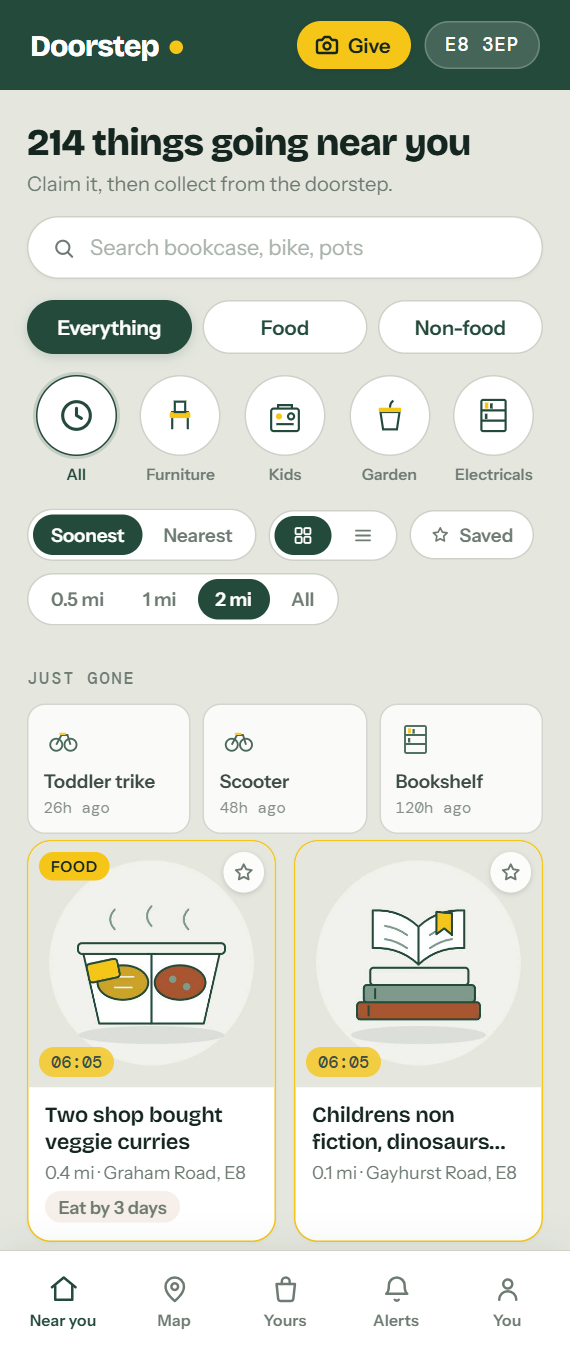
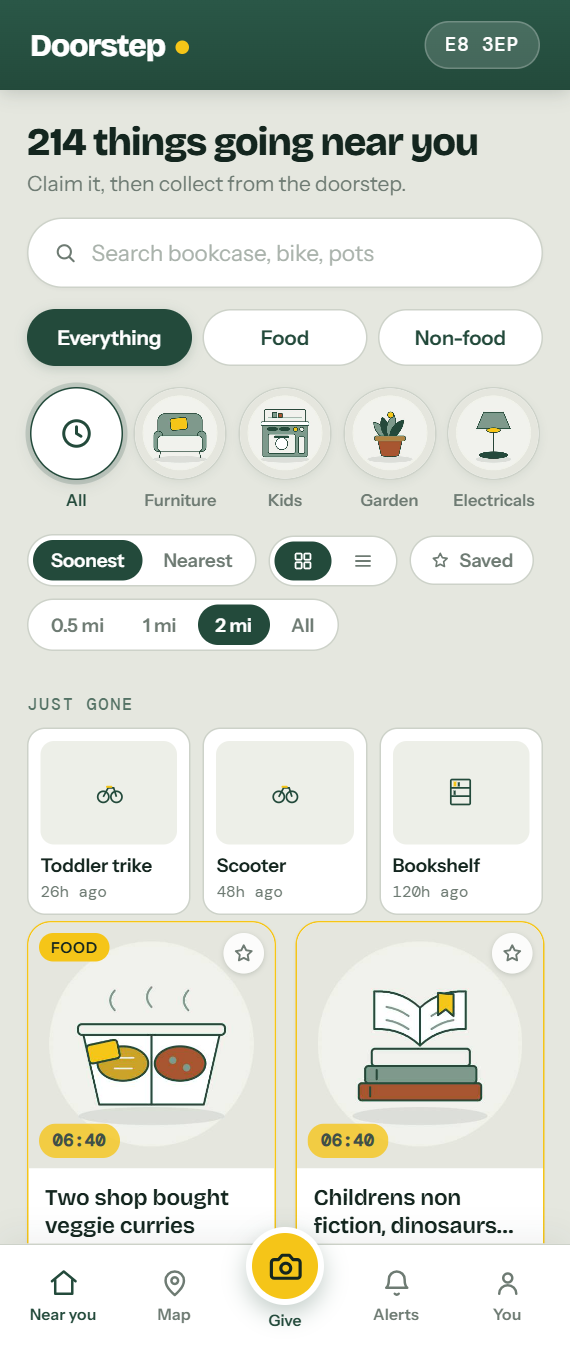
Give in the middle of the bar, and real pictures on the categories
Giving moved from the top-right corner into the middle of the bottom bar,
raised and in signal yellow — the pattern both Olio and Gumtree use, and it
puts the one thing the app wants you to do under your thumb rather than in
the hardest corner of a phone to reach. Near you, Map, Give, Alerts, You.
Your things moved into the profile, which already linked to it.

The category shortcuts were thin outline drawings, which is what made the
row look unfinished. They now use the illustration library: an actual
armchair for Furniture, a toy kitchen for Kids, a potted plant for Garden, a
floor lamp for Electricals, and the food categories likewise. The pictures
were already being served and cached, so this costs nothing. "Just gone"
gets the same treatment.

The rest is weight and contrast: a gradient and a shadow under the header so
it sits above the page, a larger headline, section labels in the brand green
rather than grey, and the claim button filled rather than outlined — it is
the moment the whole app exists for and it was the quietest thing on the
card.

Fixed: the category images were scaled inside a circle that already cropped
them, pushing the illustration past the edge.

Also fixed two of my own checks rather than the app: one was clicking "Near
you" whenever it looked for "You", and both addressed tabs by position after
the bar had been rearranged.

50 tests pass, eight screens clean at 380px and 1000px.

Changed region(s): [[0.0, 0.0933, 1.0, 0.9956], [0.507, 0.0, 0.7158, 0.0622], [0.0895, 0.0311, 0.3281, 0.0622]]

diff --git a/src/App.jsx b/src/App.jsx
@@ -231,20 +231,22 @@ const SubScreen = ({ title, time, toast, sheets, onBack, children }) => (
 );
 
 const CATEGORIES = ["Going soonest", "Furniture", "Kids", "Garden", "Electricals"];
+/* `kind` is the drawn glyph used when a listing has no picture; `pic` is the
+   illustration that stands for the whole category in the shortcut row. */
 const NONFOOD_CATS = [
-  { cat: "Furniture", kind: "chairs" },
-  { cat: "Kids", kind: "toys" },
-  { cat: "Garden", kind: "garden" },
-  { cat: "Electricals", kind: "bookcase" },
+  { cat: "Furniture", kind: "chairs", pic: "armchair" },
+  { cat: "Kids", kind: "toys", pic: "toy-kitchen" },
+  { cat: "Garden", kind: "garden", pic: "houseplant" },
+  { cat: "Electricals", kind: "bookcase", pic: "floor-lamp" },
 ];
 
 const FOOD_CATS = [
-  { cat: "Bakery", kind: "bread" },
-  { cat: "Fruit & veg", kind: "veg" },
-  { cat: "Dairy", kind: "dairy" },
-  { cat: "Store cupboard", kind: "tin" },
-  { cat: "Ready meals", kind: "meal" },
-  { cat: "Drinks", kind: "drink" },
+  { cat: "Bakery", kind: "bread", pic: "bread" },
+  { cat: "Fruit & veg", kind: "veg", pic: "vegetables" },
+  { cat: "Dairy", kind: "dairy", pic: "dairy" },
+  { cat: "Store cupboard", kind: "tin", pic: "tins" },
+  { cat: "Ready meals", kind: "meal", pic: "ready-meal" },
+  { cat: "Drinks", kind: "drink", pic: "drinks" },
 ];
 
 const catsFor = (type) => (type === "food" ? FOOD_CATS : NONFOOD_CATS);
@@ -2414,19 +2416,6 @@ export default function Doorstep() {
             </div>
             <div className="topbar-actions">
               <button
-                className="give-top"
-                onClick={() => {
-                  if (needsAccount("Sign in to give something away", { action: "give" })) return;
-                  setScreen("give");
-                }}
-              >
-                <svg width="16" height="16" viewBox="0 0 24 24" fill="none" stroke="currentColor" strokeWidth="2.4" strokeLinecap="round" strokeLinejoin="round" aria-hidden="true">
-                  <path d="M14.5 4h-5L7 7H4a2 2 0 0 0-2 2v9a2 2 0 0 0 2 2h16a2 2 0 0 0 2-2V9a2 2 0 0 0-2-2h-3z" />
-                  <circle cx="12" cy="13" r="3.4" />
-                </svg>
-                Give
-              </button>
-              <button
                 className="place-btn"
                 onClick={() => {
                   if (needsAccount("Sign in to join your neighbourhood")) return;
@@ -2487,10 +2476,10 @@ export default function Doorstep() {
 
             <div className="cat-row" role="group" aria-label="Browse by category">
               {[
-                { c: "Going soonest", kind: "clock", label: "All" },
+                { c: "Going soonest", pic: null, label: "All" },
                 ...(typeFilter === "food" ? FOOD_CATS : typeFilter === "nonfood" ? NONFOOD_CATS : [...NONFOOD_CATS, ...FOOD_CATS])
                   .slice(0, typeFilter === "all" ? 4 : 6)
-                  .map((c) => ({ c: c.cat, kind: c.kind, label: c.cat })),
+                  .map((c) => ({ c: c.cat, pic: c.pic, label: c.cat })),
               ].map((c) => (
                 <button
                   key={c.c}
@@ -2499,13 +2488,13 @@ export default function Doorstep() {
                   onClick={() => setFilter(c.c)}
                 >
                   <span className="cat-ring">
-                    {c.kind === "clock" ? (
-                      <svg width="26" height="26" viewBox="0 0 24 24" fill="none" stroke="#234A3B" strokeWidth="1.9" strokeLinecap="round" aria-hidden="true">
+                    {c.pic ? (
+                      <img src={`${API}/photos/${c.pic}`} alt="" loading="lazy" />
+                    ) : (
+                      <svg width="24" height="24" viewBox="0 0 24 24" fill="none" stroke="currentColor" strokeWidth="2" strokeLinecap="round" aria-hidden="true">
                         <circle cx="12" cy="12" r="8.5" />
                         <path d="M12 7.5V12l3 1.8" />
                       </svg>
-                    ) : (
-                      <Glyph kind={c.kind} size={30} />
                     )}
                   </span>
                   {c.label}
@@ -2595,7 +2584,13 @@ export default function Doorstep() {
                 <div className="gone-strip">
                   {recent.slice(0, 3).map((r, i) => (
                     <span key={i} className="gone-chip">
-                      <Glyph kind={r.kind} size={26} />
+                      <span className="gone-pic">
+                        {r.photoRef ? (
+                          <img src={`${API}/photos/${r.photoRef}`} alt="" loading="lazy" />
+                        ) : (
+                          <Glyph kind={r.kind} size={24} />
+                        )}
+                      </span>
                       <b>{r.title}</b>
                       <small>{r.agoMinutes < 60 ? `${r.agoMinutes} min ago` : `${Math.round(r.agoMinutes / 60)}h ago`}</small>
                     </span>
@@ -2773,20 +2768,25 @@ export default function Doorstep() {
               </svg>
               Map
             </button>
+
+            {/* the one thing the app wants you to do, sat under the thumb */}
             <button
-              className="tabbar-btn"
+              className="tabbar-give"
+              aria-label="Give something away"
               onClick={() => {
-                if (needsAccount("Sign in to see your things", { action: "mine" })) return;
-                setTab("toCollect");
-                setScreen("mine");
+                if (needsAccount("Sign in to give something away", { action: "give" })) return;
+                setScreen("give");
               }}
             >
-              <svg viewBox="0 0 24 24" fill="none" stroke="currentColor" strokeWidth="1.9" strokeLinecap="round" strokeLinejoin="round" aria-hidden="true">
-                <path d="M5 8h14l-1.2 11.2a2 2 0 0 1-2 1.8H8.2a2 2 0 0 1-2-1.8z" />
-                <path d="M9 8V6a3 3 0 0 1 6 0v2" />
-              </svg>
-              Yours
+              <span className="give-ring">
+                <svg viewBox="0 0 24 24" fill="none" stroke="currentColor" strokeWidth="2.2" strokeLinecap="round" strokeLinejoin="round" aria-hidden="true">
+                  <path d="M14.5 4h-5L7 7H4a2 2 0 0 0-2 2v9a2 2 0 0 0 2 2h16a2 2 0 0 0 2-2V9a2 2 0 0 0-2-2h-3z" />
+                  <circle cx="12" cy="13" r="3.4" />
+                </svg>
+              </span>
+              Give
             </button>
+
             <button
               className="tabbar-btn"
               onClick={() => {

diff --git a/src/styles.css b/src/styles.css
@@ -261,36 +261,8 @@
 
 .topbar-actions { display: flex; align-items: center; gap: 8px; flex: none; }
 
-/* the main action lives in the header now, in signal yellow so it reads as
-   the one thing to do */
-.give-top {
-  display: inline-flex;
-  align-items: center;
-  gap: 6px;
-  font-family: var(--body);
-  font-size: 13.5px;
-  font-weight: 600;
-  color: var(--ink);
-  background: var(--signal);
-  border: none;
-  border-radius: 20px;
-  padding: 8px 14px 8px 12px;
-  cursor: pointer;
-  white-space: nowrap;
-  box-shadow: 0 1px 3px rgba(20, 38, 31, 0.18);
-  transition: transform .08s, filter .15s;
-}
-
-.give-top:hover { filter: brightness(1.05); }
-.give-top:active { transform: translateY(1px); }
-
-.place-btn {
-  background: rgba(255, 255, 255, 0.14);
-  color: #FFF;
-  box-shadow: none;
-}
-
-.place-btn:hover { background: rgba(255, 255, 255, 0.24); }
+/* the header carries no action now — giving sits in the bottom bar, where a
+   thumb naturally rests */
 
 .icon-btn {
   width: 30px;
@@ -1651,6 +1623,7 @@
   position: sticky;
   bottom: 0;
   z-index: 25;
+  overflow: visible;
   display: flex;
   align-items: stretch;
   gap: 2px;
@@ -1685,6 +1658,48 @@
 .tabbar-btn[aria-current="page"] { color: var(--railing); }
 
 .tabbar-icon { position: relative; display: inline-flex; }
+
+/* Giving is the one thing the app wants from you, so it sits in the middle
+   of the bar and stands proud of it. */
+.tabbar-give {
+  flex: 1;
+  display: flex;
+  flex-direction: column;
+  align-items: center;
+  gap: 4px;
+  font-family: var(--body);
+  font-size: 10.5px;
+  font-weight: 700;
+  color: var(--railing);
+  background: none;
+  border: none;
+  padding: 0 2px 5px;
+  margin-top: -20px;
+  cursor: pointer;
+}
+
+.give-ring {
+  width: 52px;
+  height: 52px;
+  border-radius: 50%;
+  background: var(--signal);
+  color: var(--ink);
+  border: 4px solid var(--card);
+  display: flex;
+  align-items: center;
+  justify-content: center;
+  box-shadow: 0 6px 16px rgba(35, 74, 59, 0.28);
+  transition: transform .14s, box-shadow .18s;
+}
+
+.give-ring svg { width: 23px; height: 23px; }
+
+.tabbar-give:hover .give-ring {
+  transform: translateY(-2px);
+  box-shadow: 0 10px 22px rgba(35, 74, 59, 0.34);
+}
+
+.tabbar-give:active .give-ring { transform: scale(0.94); }
 
 .tabbar-icon em {
   position: absolute;
@@ -1835,16 +1850,28 @@
 }
 
 .cat-btn span.cat-ring {
+  position: relative;
   width: 100%;
   aspect-ratio: 1;
-  max-width: 54px;
+  max-width: 62px;
   border-radius: 50%;
   background: var(--card);
   border: 1px solid var(--rule);
+  color: var(--railing);
   display: flex;
   align-items: center;
   justify-content: center;
-  transition: border-color .15s, transform .1s, box-shadow .15s;
+  overflow: hidden;
+  box-shadow: 0 2px 6px rgba(20, 38, 31, 0.07);
+  transition: border-color .15s, transform .12s, box-shadow .18s;
+}
+
+.cat-ring img {
+  width: 100%;
+  height: 100%;
+  /* cover already crops to the circle; scaling on top of it only pushed the
+     illustration past the edge */
+  object-fit: cover;
 }
 
 .cat-btn:hover .cat-ring { border-color: var(--railing); }
@@ -1854,8 +1881,11 @@
 
 .cat-btn[aria-pressed="true"] .cat-ring {
   border-color: var(--railing);
-  box-shadow: 0 0 0 2px rgba(35, 74, 59, 0.16);
+  box-shadow: 0 0 0 3px rgba(35, 74, 59, 0.18), 0 3px 10px rgba(20, 38, 31, 0.12);
 }
+
+.cat-btn:hover .cat-ring { transform: translateY(-2px); box-shadow: 0 6px 14px rgba(20, 38, 31, 0.14); }
+.cat-btn { font-size: 11px; }
 
 /* ---------- the grid of listings ---------- */
 
@@ -2213,3 +2243,90 @@
   }
   .gcard:hover .gcard-photo img { transform: none; }
 }
+
+
+/* ---------- a bit more presence ----------
+   The palette was right but too evenly weighted: everything sat on the same
+   pale card at the same elevation, so nothing led. These give the page a
+   little depth and let the important things carry more colour. */
+
+.ds-frame { background: var(--render); }
+
+.topbar {
+  background: linear-gradient(180deg, #2A5747 0%, var(--railing) 100%);
+  box-shadow: 0 2px 12px rgba(20, 38, 31, 0.18);
+}
+
+.topbar .wordmark { font-size: 21px; letter-spacing: -0.03em; }
+
+.feed-head {
+  font-size: 26px;
+  line-height: 1.12;
+  letter-spacing: -0.03em;
+}
+
+.feed-sub { font-size: 14px; }
+
+/* section headings earn their place */
+.sub-head, .just-gone .sub-head {
+  font-size: 11px;
+  letter-spacing: 0.12em;
+  color: var(--railing);
+  opacity: 0.75;
+}
+
+/* the card title is the thing being read, so let it lead */
+.gcard-copy b { font-size: 15px; line-height: 1.3; }
+.gcard-copy span { font-size: 12.5px; }
+.gcard-photo { background: #EDEFE8; }
+
+/* the countdown chip is information, so make it legible rather than subtle */
+.gcard-timer {
+  font-size: 11.5px;
+  font-weight: 600;
+  padding: 4px 9px;
+  backdrop-filter: blur(2px);
+}
+
+/* claiming is the moment the app exists for */
+.claim-btn {
+  background: var(--railing);
+  color: #FFF;
+  font-size: 15px;
+  letter-spacing: 0.005em;
+}
+
+.claim-btn:hover:not(:disabled) { background: var(--railing-lift); }
+.claim-btn:disabled { background: #EFF1EA; color: var(--hush); }
+.claim-btn.mine { background: var(--signal); color: var(--ink); }
+.card-action { border-top: none; }
+
+.detail-title { font-size: 26px; letter-spacing: -0.025em; }
+.detail-photo { border: none; box-shadow: 0 4px 16px rgba(20, 38, 31, 0.08); background: #EDEFE8; }
+
+/* the search field is the first thing a hand reaches for */
+.search-row { padding: 13px 17px; }
+.search-row input { font-size: 15px; }
+
+.type-pill { padding: 10px 8px; }
+
+/* give the feed room to breathe between its parts */
+.feed { padding-bottom: 34px; }
+.item-grid { gap: 13px; }
+.just-gone { margin-top: 30px; }
+.controls-row { margin-bottom: 18px; }
+
+.gone-pic {
+  width: 100%;
+  aspect-ratio: 4 / 3;
+  border-radius: 9px;
+  overflow: hidden;
+  background: #EDEFE8;
+  display: flex;
+  align-items: center;
+  justify-content: center;
+  margin-bottom: 6px;
+}
+
+.gone-pic img { width: 100%; height: 100%; object-fit: cover; }
+.gone-chip { padding: 8px; opacity: 1; }

diff --git a/server/index.js b/server/index.js
@@ -610,7 +610,7 @@ app.get(
   wrap(async (req, res) => {
     const now = Date.now();
     const rows = await query(
-      `SELECT title, cat, kind, road, collected_at FROM items
+      `SELECT title, cat, kind, road, collected_at, photo_ref FROM items
        WHERE collected_at IS NOT NULL AND hidden_at IS NULL
        ORDER BY collected_at DESC LIMIT 8`
     );
@@ -620,6 +620,7 @@ app.get(
         cat: r.cat,
         kind: r.kind,
         road: r.road,
+        photoRef: r.photo_ref || null,
         agoMinutes: Math.max(1, Math.round((now - num(r.collected_at)) / 60000)),
       })),
     });
